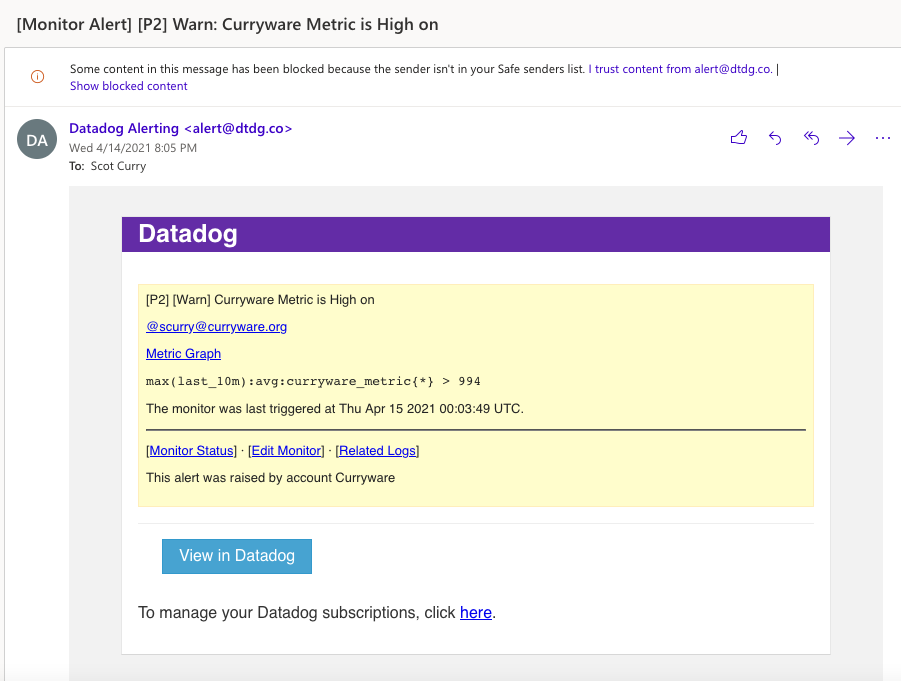
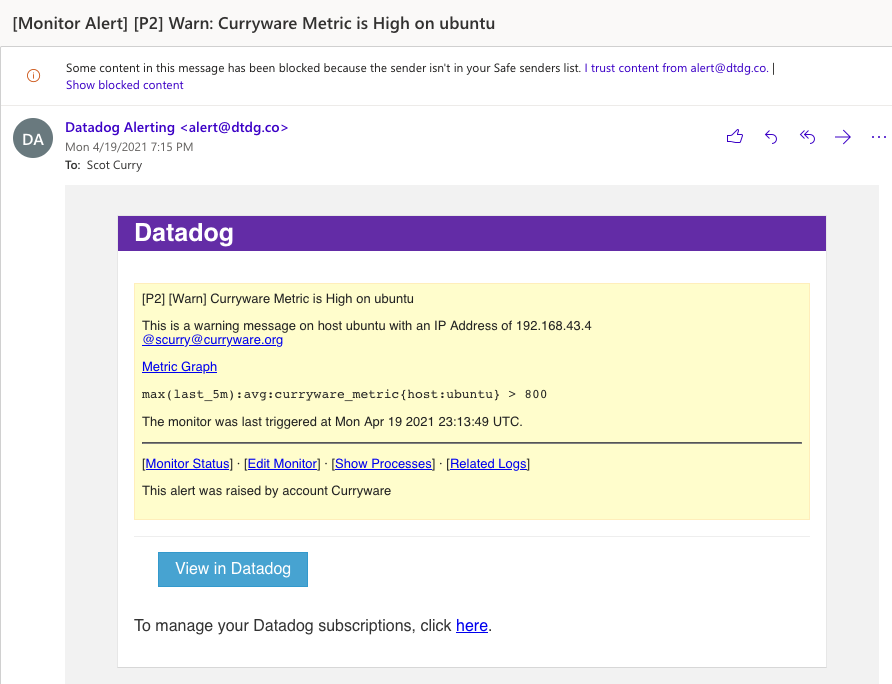
Added Additional Screenshots

diff --git a/answers.md b/answers.md
@@ -178,8 +178,13 @@ This was a simple dropdown.
   
 * **Take a snapshot of this graph and use the @ notation to send it to yourself.**
 
-The only way I was able to find to take a snapshot was via API, so based on the instructions that this would be done via the
-console, I'm uncertain how to complete this task.
+Screen shot of Datadog console sharing the snapshot
+
+![Dashboard Snapshot](https://github.com/scotcurry/hiring-engineers/blob/master/Images/CreatingNotification.png)
+
+Screenshot of the emailed notification.
+
+![Email Notification](https://github.com/scotcurry/hiring-engineers/blob/master/Images/EmailNotification.png)
 
 * **What is the Anomaly graph displaying?**
 
@@ -190,18 +195,39 @@ account for seasonality and show trends.
 
 Create a new Metric Monitor that watches the average of your custom metric (my_metric) and will alert if it’s above the following values over the past 5 minutes:
 
-Definition of the monitor:
-![Monitor Definition](https://github.com/scotcurry/hiring-engineers/blob/master/Images/MetricDefinition.png)
+While it was very easy to create the monitor, it took me a long time to realize that I needed to create the monitor with the From: field
+as the monitoring host to get the variable information for the notification email.
+
+Definition of the monitor Part(1):
+![Monitor Definition1](https://github.com/scotcurry/hiring-engineers/blob/master/Images/DefineMonitor1.png)
+
+Definition of the monitor Part(2):
+![Monitor Definition1](https://github.com/scotcurry/hiring-engineers/blob/master/Images/DefineMonitor2.png)
 
 Messages with variable information:
 ![Message Definition](https://github.com/scotcurry/hiring-engineers/blob/master/Images/NotificationSettings.png)
 
-Email Message for Monitor:
-![Email Message](https://github.com/scotcurry/hiring-engineers/blob/master/Images/EmailMessage.png)
+**Alert Email Message for Monitor:**
+![Alert Email Message](https://github.com/scotcurry/hiring-engineers/blob/master/Images/AlertEmail.png)
 
-**Notes**
+**Warning Email Message for Monitor:**
+![Alert Email Message](https://github.com/scotcurry/hiring-engineers/blob/master/Images/WarningEmail.png)
 
-*Question* - I don't seem to be handling the variables correctly.  The email should show the hostname, but it currently isn't.
+**No Data Email for Monitor:**
+![No Data Email Message](https://github.com/scotcurry/hiring-engineers/blob/master/Images/NoDataEmail.png)
+
+### Bonus Question: Configure Monitor Downtime
+
+I found it interesting that the scheduling was linked directly off the "Mute" button for the notification.
+
+**Configure a weekday schedule (stops notifications from 7PM until 9AM**
+![Weekday Schedule](https://github.com/scotcurry/hiring-engineers/blob/master/Images/ScheduleWeekDayDowntime.png)
+
+**Configure a weekend schedule**
+![Weekday Schedule](https://github.com/scotcurry/hiring-engineers/blob/master/Images/WeekendDowntime.png)
+
+**Send a notification about scheduling**
+![SchedulingEmail](https://github.com/scotcurry/hiring-engineers/blob/master/Images/DowntimeEmail.png)
 
 ## Collecting APM Data:
 
